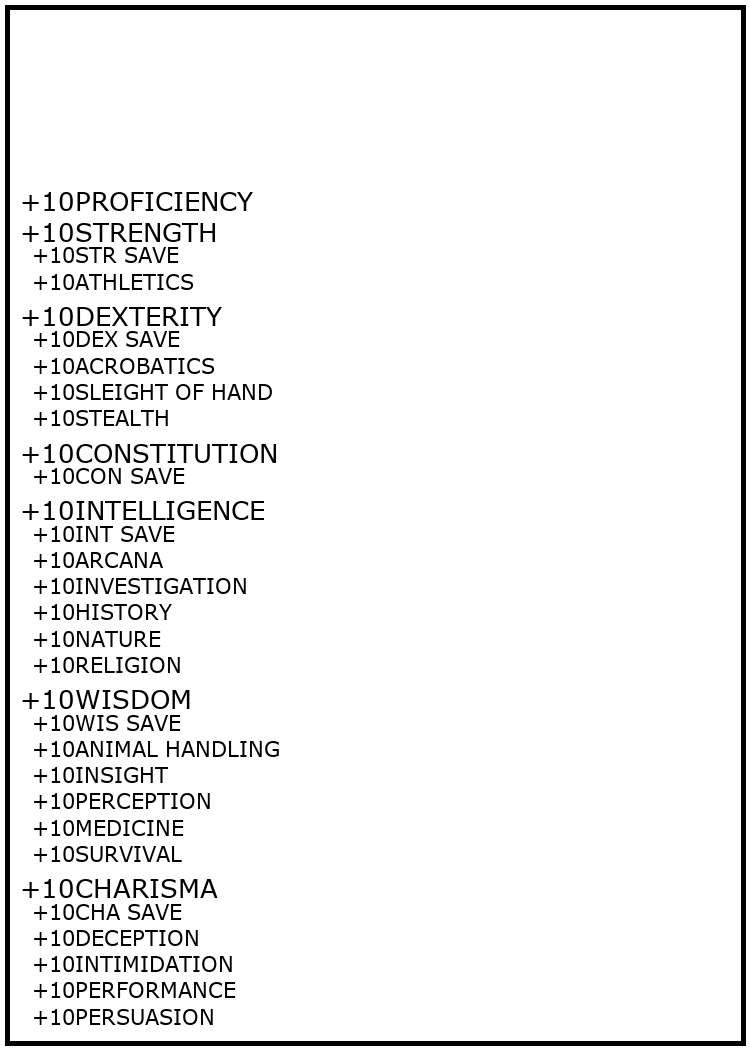
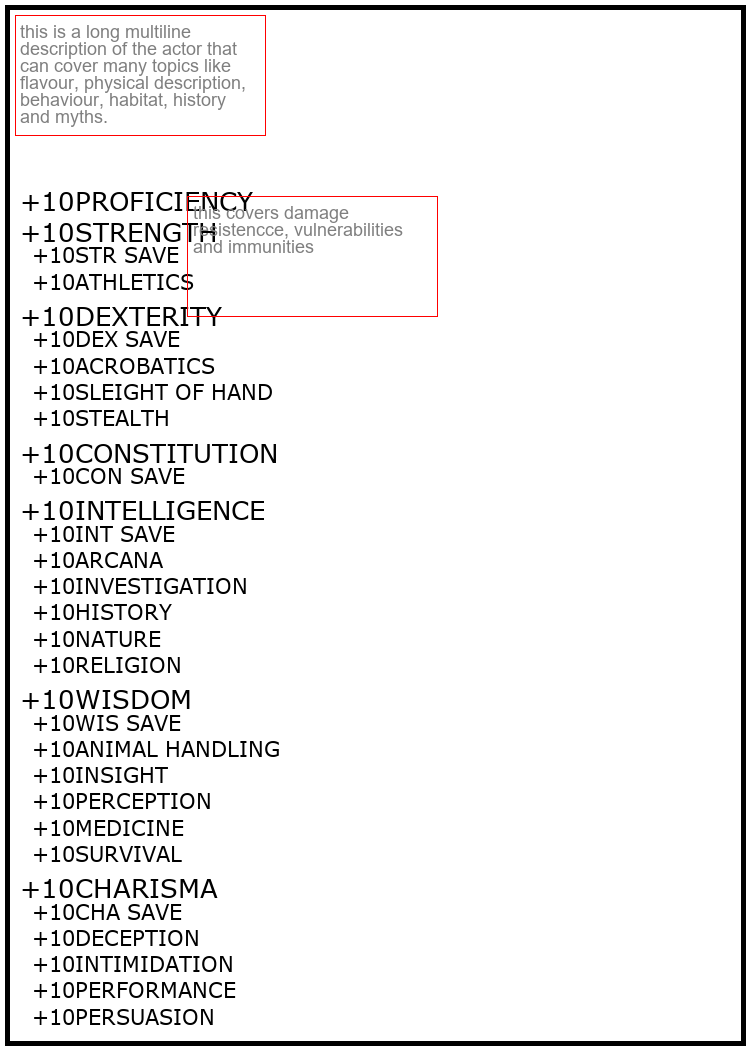
constructing the text boxes and drawing them onto images.
next is going to be to fetch the NPC data, and assign it to the layout matching the labels

Changed region(s): [[0.0, 0.0, 0.3067, 0.1219], [0.2453, 0.1829, 0.5213, 0.2438]]

diff --git a/src/test_k_card_back_class.py b/src/test_k_card_back_class.py
@@ -103,129 +103,6 @@ class Cl_npc_character_sheet_generator:
         logging.info("Layout loaded successfully")
         return ln_layout_data
 
-    #this seems unused
-    def load_layout(
-        self,
-        i_ls_file_path: List[str],
-        i_card_width: int,
-        i_card_height: int,
-    ) -> List[St_attribute_ability]:
-        """
-        Load a card layout from JSON and convert it into a list of
-        :class:`St_attribute_ability` objects.
-
-        The JSON file is expected to contain an ``attributes_and_abilities`` key
-        whose value is an array.  Each element may use *percent‑per‑thousand*
-        (`*_ppt`) values to describe positions and font sizes relative to the
-        card dimensions – these are converted into pixel coordinates.
-
-        Parameters
-        ----------
-        i_file_path : str
-            Path to the JSON file that defines the layout.
-        i_card_width : int
-            Width of the card in pixels.  This value is used for scaling
-            percent‑based positions.
-        i_card_height : int
-            Height of the card in pixels.
-
-        Returns
-        -------
-        List[St_attribute_ability]
-            A list, one entry per attribute/ability defined in the JSON,
-            with all coordinates expressed in absolute pixel values.
-        """
-
-        # --------------------------------------------------------------------- #
-        # 1. Read and parse the JSON file
-        # --------------------------------------------------------------------- #
-        l_layout_path = convert_to_path(i_ls_file_path)
-        logging.info(f"Loading layout from: {l_layout_path}")
-        if not l_layout_path.is_file():
-            raise FileNotFoundError(f"Layout file does not exist: {i_ls_file_path}")
-
-        with l_layout_path.open("r", encoding="utf-8") as cl_file:
-            ln_json_data: dict[str, object] = json.load(cl_file)
-
-        try:
-            lst_abilities: List[dict[str, object]] = ln_json_data["attributes_and_abilities"]
-            logging.info(f"Number of abilities: {len(lst_abilities)}")
-
-            lst_text_box: List[dict[str, object]] = ln_json_data["text_boxes"]
-            logging.debug(f"Number of Text Boxes: {len(lst_text_box)}")
-
-        except KeyError as exc:
-            raise ValueError("JSON layout must contain an 'attributes_and_abilities' key") from exc
-
-        # --------------------------------------------------------------------- #
-        # 2. Convert each entry to St_attribute_ability
-        # --------------------------------------------------------------------- #
-        l_result: List[St_attribute_ability] = []
-
-        h_cursor = 0
-        w_cursor = 0
-
-        
-        for st_item in lst_abilities:
-            # ----------------------------------------------------------------- #
-            #   Name
-            # ----------------------------------------------------------------- #
-            s_name: str = str(st_item.get("s_name", ""))
-
-            n_w_pos_ppt: int | float = st_item.get("w_pos_ppt", 0)
-            n_h_pos_ppt: int | float = st_item.get("h_pos_ppt", 0)
-
-            w_name_px: int = int(i_card_width * n_w_pos_ppt / 1000)
-            h_name_px: int = int(i_card_height * n_h_pos_ppt / 1000)
-
-            if (h_cursor <= 0):
-                w_cursor = w_name_px
-                h_cursor = h_name_px
-            else:
-                w_cursor += w_name_px
-                h_cursor += h_name_px
-
-            # ----------------------------------------------------------------- #
-            #   Font Size
-            # ----------------------------------------------------------------- #
-
-            h_font_ppt : int = st_item.get("h_font_ppt", 0)
-            h_font_px = i_card_height * h_font_ppt / 1000
-
-            # ----------------------------------------------------------------- #
-            #   Modifier
-            # ----------------------------------------------------------------- #
-            s_modifier_value: str = str(st_item.get("s_modifier_value", ""))
-
-            # The layout may provide a dedicated position for the modifier.
-            # If it is missing we simply use the same X coordinate as the name.
-            n_w_mod_pos_ppt: int | float = st_item.get("w_pos_modifier_ppt")
-            if n_w_mod_pos_ppt is not None:
-                w_mod_px: int = int(i_card_width * n_w_mod_pos_ppt / 1000)
-            else:
-                w_mod_px: int = w_name_px
-
-            # ----------------------------------------------------------------- #
-            #   Assemble the dataclass instance
-            # ----------------------------------------------------------------- #
-            cl_ability: St_attribute_ability = St_attribute_ability(
-                s_name=s_name,
-                w_name_pos_px = w_cursor,
-                h_name_pos_px = h_cursor,
-                h_name_font = h_font_px,
-
-                s_modifier_value=s_modifier_value,
-                w_modifier_pos_px=w_cursor -w_mod_px,
-            )
-            l_result.append(cl_ability)
-
-        
-        for st_text_box in lst_text_box:
-            logging.debug(f"Processing: {st_text_box}")
-
-        logging.info(f"Successfully converted {len(l_result)} layout items")
-        return l_result
-
     def draw_layout_to_image(
         self,
         i_ld_layout: List[Dict[str, Any]],
@@ -327,6 +204,35 @@ class Cl_npc_character_sheet_generator:
 
         for st_text_box in ast_text_boxes:
             logging.debug(f"Processing Text Box: {st_text_box}")
+
+            #load text box parameters
+            s_label: str = st_text_box.get("s_name", "") 
+            s_text: str = st_text_box.get("s_text", "")
+            w_top_left_ppt: int = st_text_box.get("h_top_left_ppt", 0)
+            h_top_left_ppt: int = st_text_box.get("h_top_left_ppt", 0)
+            w_size_ppt: int = st_text_box.get("w_size_ppt", 0)
+            h_size_left_ppt: int = st_text_box.get("h_size_left_ppt", 0)
+            h_font_ppt: int = st_text_box.get("h_font_ppt", 0)
+            
+            # Convert PPT values to pixels
+            w_top_left_px = w_size_px * w_top_left_ppt / 1000
+            h_top_left_px = h_size_px * w_top_left_px / 1000
+            h_font_px = h_size_px * h_font_ppt / 1000
+
+            Cl_multiline_text.render_fixed_size_text_box(
+                i_cl_imgage = i_cl_image.g_cl_image,
+                i_s_text = s_text,
+                i_w_margin = w_top_left_px,
+                i_h_margin = h_top_left_px,
+                i_w_border = 250,
+                i_h_border = 120,
+                i_s_font_name = "arial.ttf",
+                i_n_font_size = 18,
+                i_tn_color = (127, 127, 127),
+                i_n_padding = 5,
+                i_x_draw_border = True,
+                i_tn_border_color = (255,0,0)
+            )
 
 
         logging.info("Layout drawing completed successfully")
